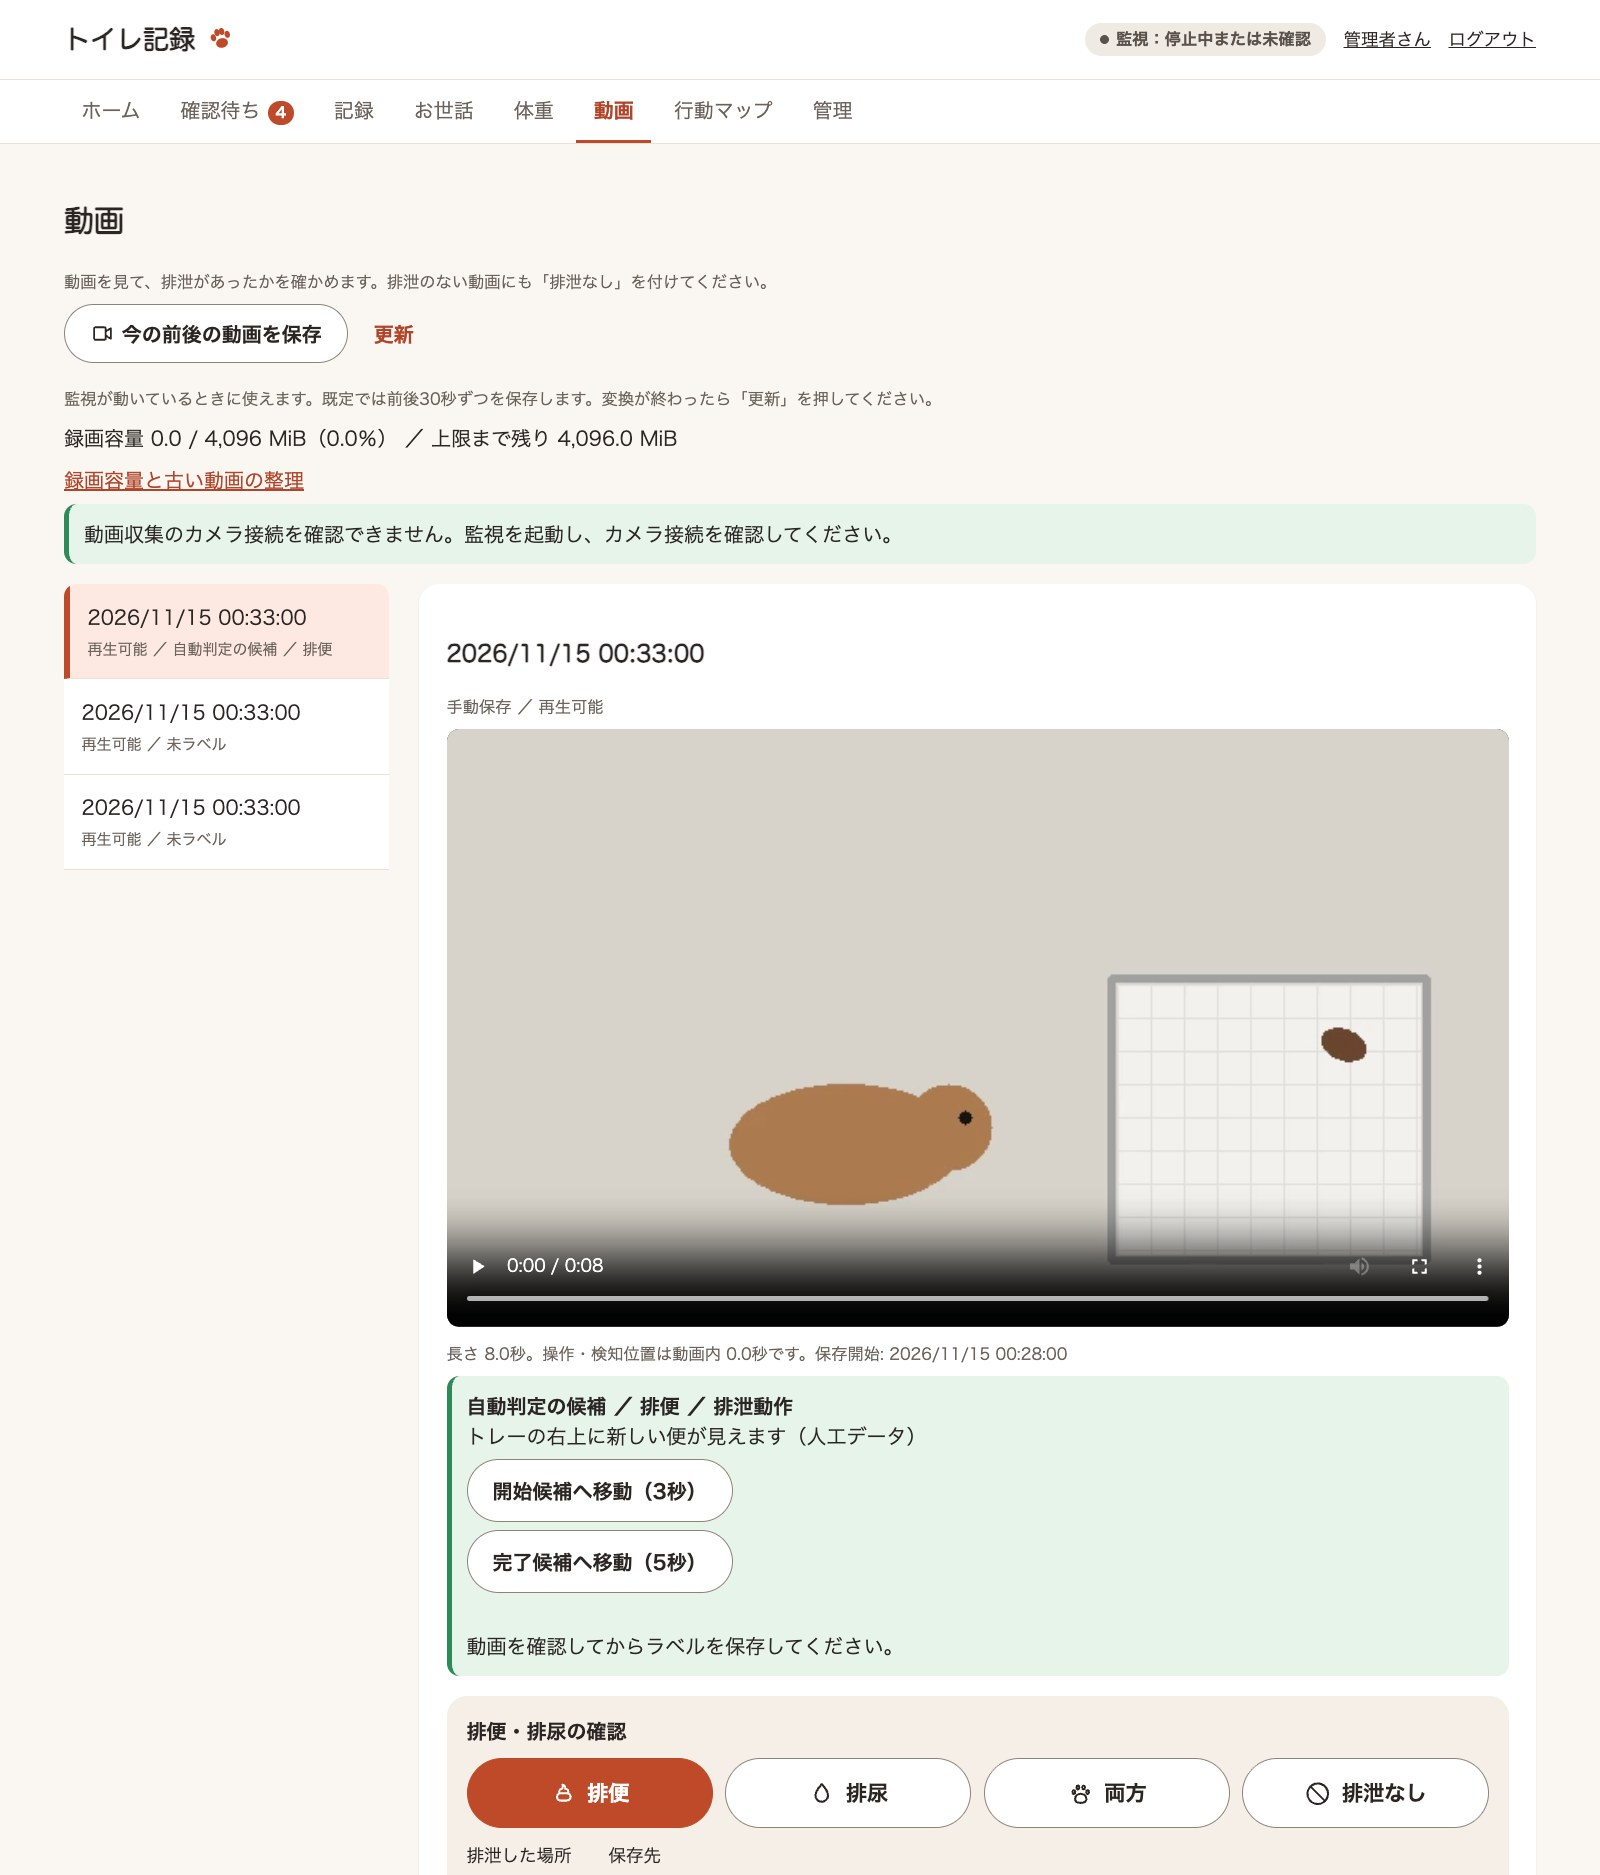
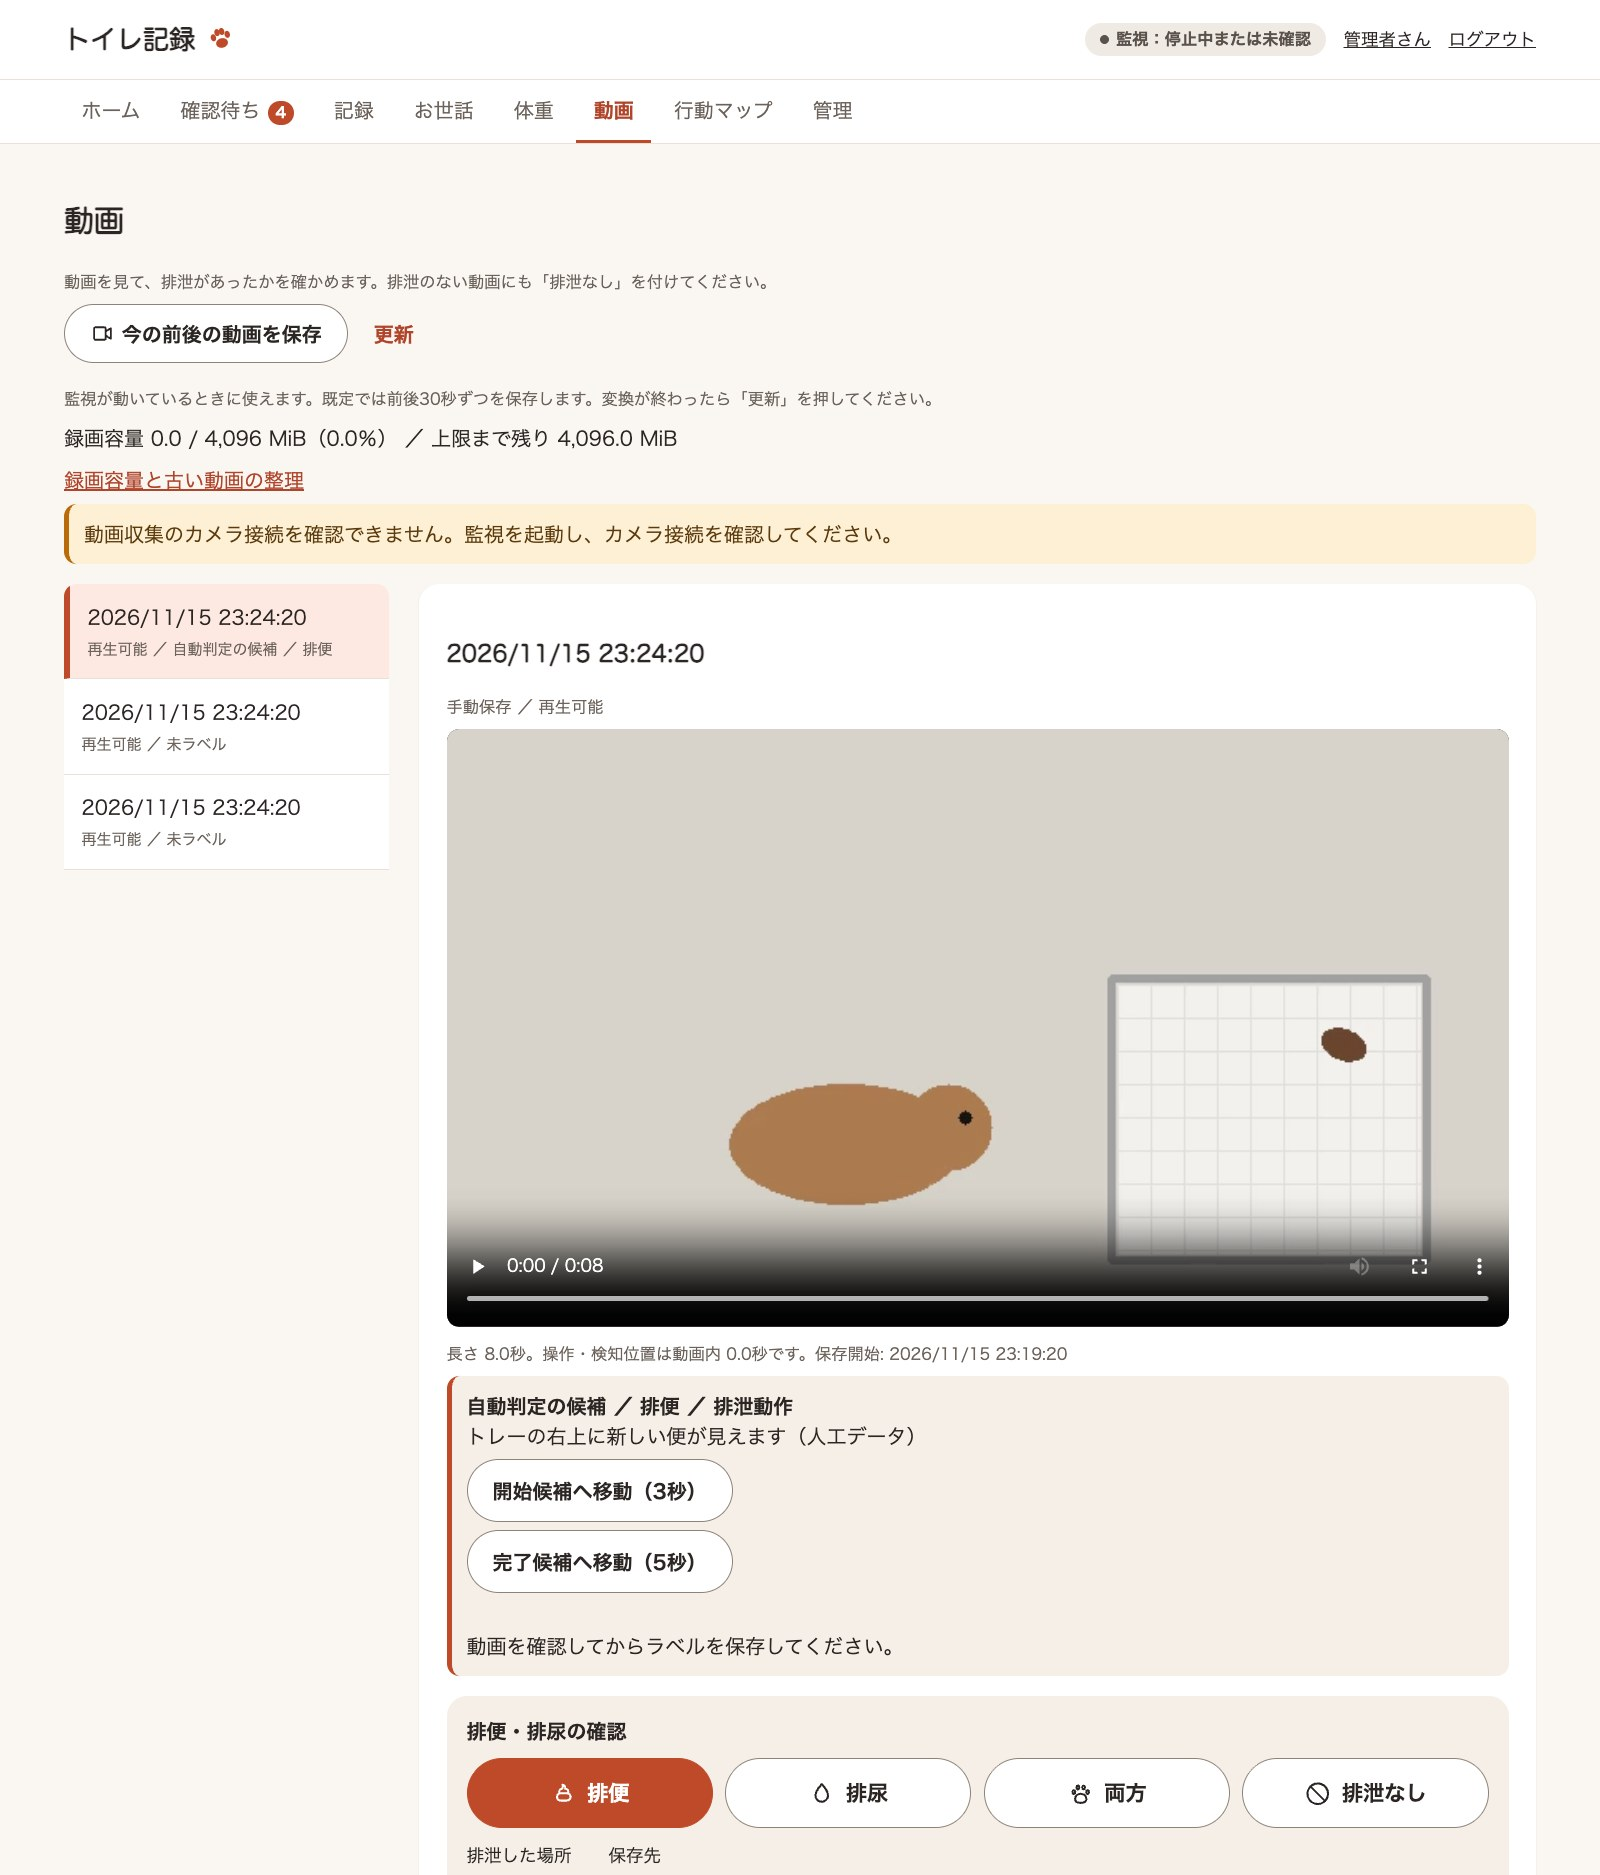
fix: 注意の知らせを、成功の知らせと違う色で出す (#167)
- 注意（message-warn）と案内（message-info）の見た目を足す
- カメラ接続を確認できない・部分動画・設定ファイルの場所が分からない・飛ばした件が残っている、を注意にする
- 自動判定のエラーとトレー交換のエラーを失敗にする
- 自動判定の候補と旋回候補を案内にする
- 動画の画面のスクリーンショットを撮り直す

Closes #164

Changed region(s): [[0.0312, 0.2784, 0.5625, 0.3403], [0.375, 0.3403, 0.4375, 0.3712]]

diff --git a/src/poop_detector/gui/templates/clips.html b/src/poop_detector/gui/templates/clips.html
@@ -5,7 +5,7 @@
 {% include "_review_bar.html" %}
 {% if not review %}
 <h2>動画</h2><p class="note">動画を見て、排泄があったかを確かめます。排泄のない動画にも「排泄なし」を付けてください。</p><form method="post" action="/clips/request" class="toolbar">{{ csrf_field(token) }}<button class="secondary">{{ icon("video") }} 今の前後の動画を保存</button><a class="button ghost" href="/clips">更新</a></form><p class="note">監視が動いているときに使えます。既定では前後30秒ずつを保存します。変換が終わったら「更新」を押してください。</p>{{ capacity_panel(capacity) }}{% if viewer_admin %}<p><a href="/manage/storage">録画容量と古い動画の整理</a></p>{% endif %}
-{% if not live %}<div class="message">動画収集のカメラ接続を確認できません。監視を起動し、カメラ接続を確認してください。</div>{% endif %}
+{% if not live %}<div class="message message-warn" role="status">動画収集のカメラ接続を確認できません。監視を起動し、カメラ接続を確認してください。</div>{% endif %}
 {% if saved %}<div class="message" role="status">保存しました。</div>{% endif %}
 {% endif %}
 <div class="workspace{% if review %} reviewing{% endif %}">{% if not review %}<nav id="clip-list" aria-label="動画一覧">
@@ -21,9 +21,9 @@
 {% if notice_unavailable %}<p>動画ファイルを確認できません。<a href="/records/events?manual=1#manual-record">手動で記録する</a></p>{% endif %}
 {% if clip.ready %}
 <video controls preload="metadata" class="clip-video" playsinline src="/clip-video?id={{ clip.id }}{{ seek }}">動画を再生できません。</video><p class="note">長さ {{ "%.1f"|format(clip.duration) }}秒。操作・検知位置は動画内 {{ "%.1f"|format(clip.trigger_offset) }}秒です。保存開始: {{ clip.start_time }}</p>
-{% if clip.interrupted %}<div class="message">切断・停止・フレーム欠落がある部分動画です。欠落区間では同じフレームを表示することがあります。</div>{% endif %}
+{% if clip.interrupted %}<div class="message message-warn">切断・停止・フレーム欠落がある部分動画です。欠落区間では同じフレームを表示することがあります。</div>{% endif %}
 {% if circling %}
-<div class="message"><strong>行動分析 ／ 旋回候補</strong><p>トレー付近の位置を取得 {{ circling.located }}/{{ circling.sampled }}コマ</p>
+<div class="message message-info"><strong>行動分析 ／ 旋回候補</strong><p>トレー付近の位置を取得 {{ circling.located }}/{{ circling.sampled }}コマ</p>
 {%- if not circling.candidates %}<p>旋回候補はありません。</p>{% endif -%}
 {%- for candidate in circling.candidates -%}
 <p><button class="secondary" type="button" data-video-seek="{{ candidate.start }}">旋回候補 {{ "%.1f"|format(candidate.start) }}〜{{ "%.1f"|format(candidate.end) }}秒へ移動</button>{% if candidate.lead is not none %} ／ 排泄の開始記録より {{ "%.1f"|format(candidate.lead) }}秒前に検出{% endif %}</p>
@@ -31,8 +31,8 @@
 </div>
 {% endif %}
 {% if assessment %}
-{% if assessment.error %}<div class="message">{{ assessment.error }}</div>{% else %}
-<div class="message"><strong>自動判定の候補 ／ {{ assessment.label }}{% if assessment.location %}（{{ assessment.location }}）{% endif %} ／ {{ assessment.activity }}</strong><br>{{ assessment.reason }}
+{% if assessment.error %}<div class="message message-error">{{ assessment.error }}</div>{% else %}
+<div class="message message-info"><strong>自動判定の候補 ／ {{ assessment.label }}{% if assessment.location %}（{{ assessment.location }}）{% endif %} ／ {{ assessment.activity }}</strong><br>{{ assessment.reason }}
 {%- for seek in assessment.seeks -%}
 <p><button class="secondary" type="button" data-video-seek="{{ seek.value }}">{{ seek.text }}（{{ seek.shown }}秒）</button></p>
 {%- endfor -%}

diff --git a/src/poop_detector/gui/templates/style.css b/src/poop_detector/gui/templates/style.css
@@ -46,6 +46,10 @@ button,a.button{font:inherit;font-weight:600;padding:11px 20px;border:1px solid 
 a.button{display:inline-block;text-decoration:none}
 button.secondary,a.button.secondary{background:var(--surface);color:var(--text);border-color:var(--border-strong)}button.ghost,a.button.ghost{background:none;color:var(--link);border-color:transparent;padding-inline:8px}button:hover,a.button:hover{filter:brightness(.94)}button:disabled{cursor:not-allowed;opacity:.6}
 .message,.saved{background:var(--success-bg);padding:12px;margin-bottom:16px;border-left:4px solid var(--success-border);border-radius:var(--radius-small)}.message-error,.error{background:var(--error-bg);padding:12px;margin-bottom:16px;border-left:4px solid var(--error-border);border-radius:var(--radius-small)}
+/* 知らせの種類：成功は message、注意は message-warn、失敗は message-error、判定の候補などの案内は message-info。
+   色だけに頼らず、文言でも種類が分かるように書く。 */
+.message-warn{background:var(--warn-bg);color:var(--warn-text);border-left-color:var(--warn-border)}.message-warn a{color:var(--warn-text)}
+.message-info{background:var(--surface-2);border-left-color:var(--primary)}
 ul.message,ul.message-error{padding-left:34px}
 .capacity-warning{background:var(--warn-bg);color:var(--warn-text);padding:12px;border-left:4px solid var(--warn-border);border-radius:var(--radius-small)}
 details{margin-top:24px;padding:20px}summary{cursor:pointer;font-weight:bold}details form{margin-top:18px}.empty{padding:50px 24px;text-align:center}

diff --git a/src/poop_detector/gui/templates/settings.html b/src/poop_detector/gui/templates/settings.html
@@ -8,7 +8,7 @@
 {% if editable %}
 <p class="note">監視するマシンの設定ファイル（{{ file }}）を書き換えます。監視（run）と GUI は起動したときに設定を読むので、保存した設定は起動し直すと反映されます。書き換えるのは変えた項目の値だけで、コメントは残ります。</p>
 {% else %}
-<p class="message">設定ファイルの場所が分からないため、表示だけです（既定値を表示しています）。</p>
+<p class="message message-warn">設定ファイルの場所が分からないため、表示だけです（既定値を表示しています）。</p>
 {% endif %}
 <form method="post" action="/manage/settings" class="settings-form">{{ csrf_field(token) }}<input type="hidden" name="base" value="{{ base }}">
 {% if pending %}

diff --git a/src/poop_detector/gui/templates/models.html b/src/poop_detector/gui/templates/models.html
@@ -35,7 +35,7 @@
 <p><button>保存</button></p>
 </form>
 <p class="note">設定ファイルの review の値だけを書き換えます。動いている監視（run）は、次の動画の判定から反映します。新しい判定器を使えない（未ログインなど）ときは、前の判定器のまま続けます。</p>
-{% else %}<p class="message">設定ファイルの場所が分からないため、表示だけです。</p>{% endif %}
+{% else %}<p class="message message-warn">設定ファイルの場所が分からないため、表示だけです。</p>{% endif %}
 </section>
 <section class="settings-section" aria-labelledby="usage-title"><h3 id="usage-title">これまでの判定</h3>
 {% if judges %}

diff --git a/src/poop_detector/gui/templates/review.html b/src/poop_detector/gui/templates/review.html
@@ -4,7 +4,7 @@
 {% block content %}
 <h2>確認待ち {{ entries|length }}件</h2>
 {% if done %}<p class="message" role="status">すべて確認しました。</p>{% endif %}
-{% if end and entries %}<p class="message" role="status">最後まで進みました。飛ばした件が残っています。</p>{% endif %}
+{% if end and entries %}<p class="message message-warn" role="status">最後まで進みました。飛ばした件が残っています。</p>{% endif %}
 {% if entries %}
 <p>新しい順に並んでいます。ラベルを保存すると、次の件が開きます。</p>
 <p><a class="button" href="{{ next_url }}">確認を始める</a></p>

diff --git a/src/poop_detector/gui/templates/management.html b/src/poop_detector/gui/templates/management.html
@@ -24,7 +24,7 @@
 </dl>
 <h3>トレー交換</h3>
 <p id="manage-message" role="status">{{ message }}</p>
-{% if error %}<p class="message" role="alert">{{ error }}</p>{% endif %}
+{% if error %}<p class="message message-error" role="alert">{{ error }}</p>{% endif %}
 {% if phase in ("idle", "applied", "cancelled") %}
 <form method="post" action="/manage/tray">{{ csrf_field(token) }}
 <button name="action" value="begin">トレー交換を開始</button></form>

diff --git a/tests/test_themes.py b/tests/test_themes.py
@@ -247,3 +247,42 @@ def test_components_escape_their_values():
 def test_component_styles_exist():
     for selector in [".icon{", ".stat{", ".chip{", ".chip-ok{", ".empty-state{", ".ghost{"]:
         assert selector in STYLE, selector
+
+
+# 知らせの種類（#164）。成功は message、注意は message-warn、失敗は message-error、
+# 判定の候補などの案内は message-info にし、色から種類を読み取れるようにする。
+NOTICES = [
+    ("clips.html", "message message-warn", "動画収集のカメラ接続を確認できません"),
+    ("clips.html", "message message-warn", "切断・停止・フレーム欠落がある部分動画です"),
+    ("clips.html", "message message-error", "{{ assessment.error }}"),
+    ("clips.html", "message message-info", "<strong>自動判定の候補"),
+    ("clips.html", "message message-info", "<strong>行動分析"),
+    ("clips.html", 'message" role="status', "保存しました。"),
+    ("settings.html", "message message-warn", "設定ファイルの場所が分からないため"),
+    ("models.html", "message message-warn", "設定ファイルの場所が分からないため"),
+    ("review.html", "message message-warn", "飛ばした件が残っています"),
+    ("review.html", 'message" role="status', "すべて確認しました。"),
+    ("management.html", "message message-error", "{{ error }}"),
+]
+
+
+@pytest.mark.parametrize(("template", "kind", "text"), NOTICES)
+def test_notices_use_the_class_for_their_kind(template, kind, text):
+    source = (TEMPLATES / template).read_text()
+    pattern = rf'class="{re.escape(kind)}"[^>]*>(?:(?!</(?:div|p)>).)*?{re.escape(text)}'
+    assert re.search(pattern, source, re.S), f"{template}: {text}"
+
+
+def test_notice_kinds_have_their_own_colors():
+    for selector in [".message-warn{", ".message-info{", ".message-error,.error{"]:
+        assert selector in STYLE, selector
+    warn = STYLE.split(".message-warn{", 1)[1].split("}", 1)[0]
+    assert "var(--warn-bg)" in warn
+    assert "var(--warn-text)" in warn
+    assert "var(--warn-border)" in warn
+
+
+def test_clip_page_warns_when_the_camera_is_not_connected(gui):
+    server, _, _ = gui
+    html = page(server, login(server, role="member"), "/clips")
+    assert re.search(r'<div class="message message-warn" role="status">動画収集のカメラ接続', html)
